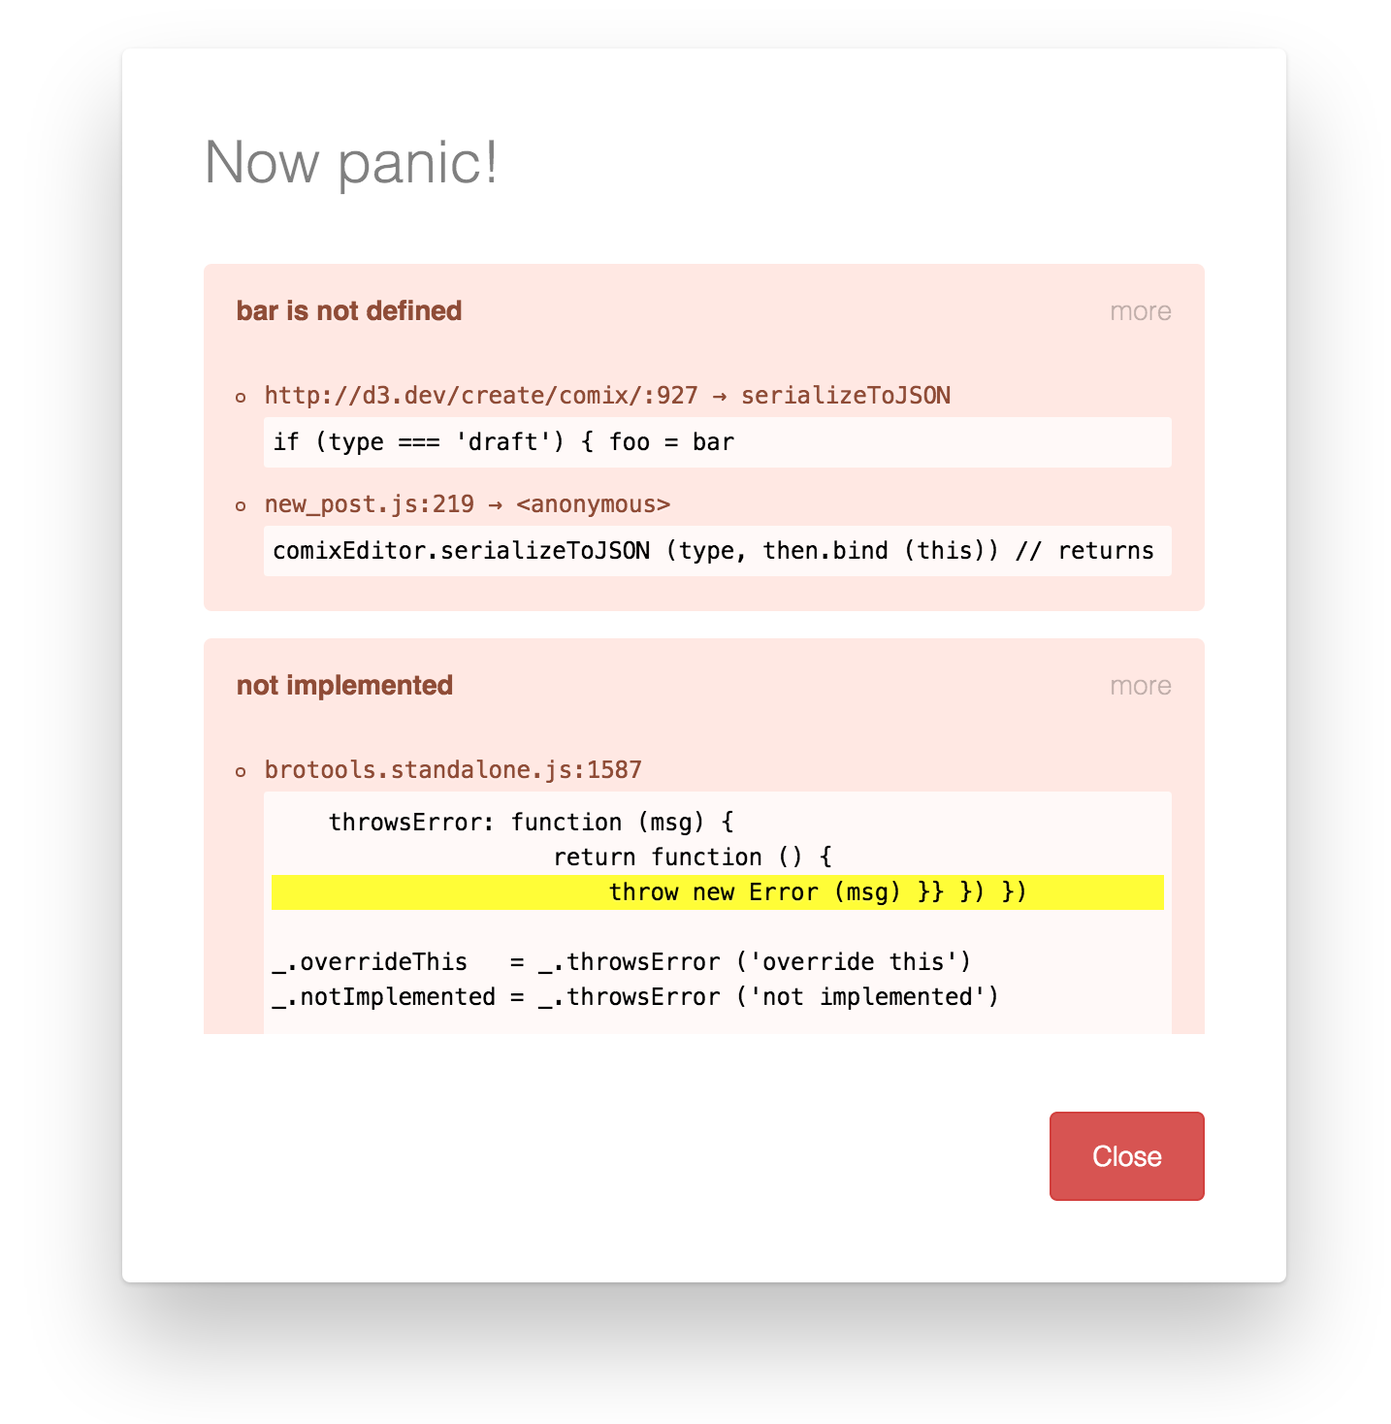
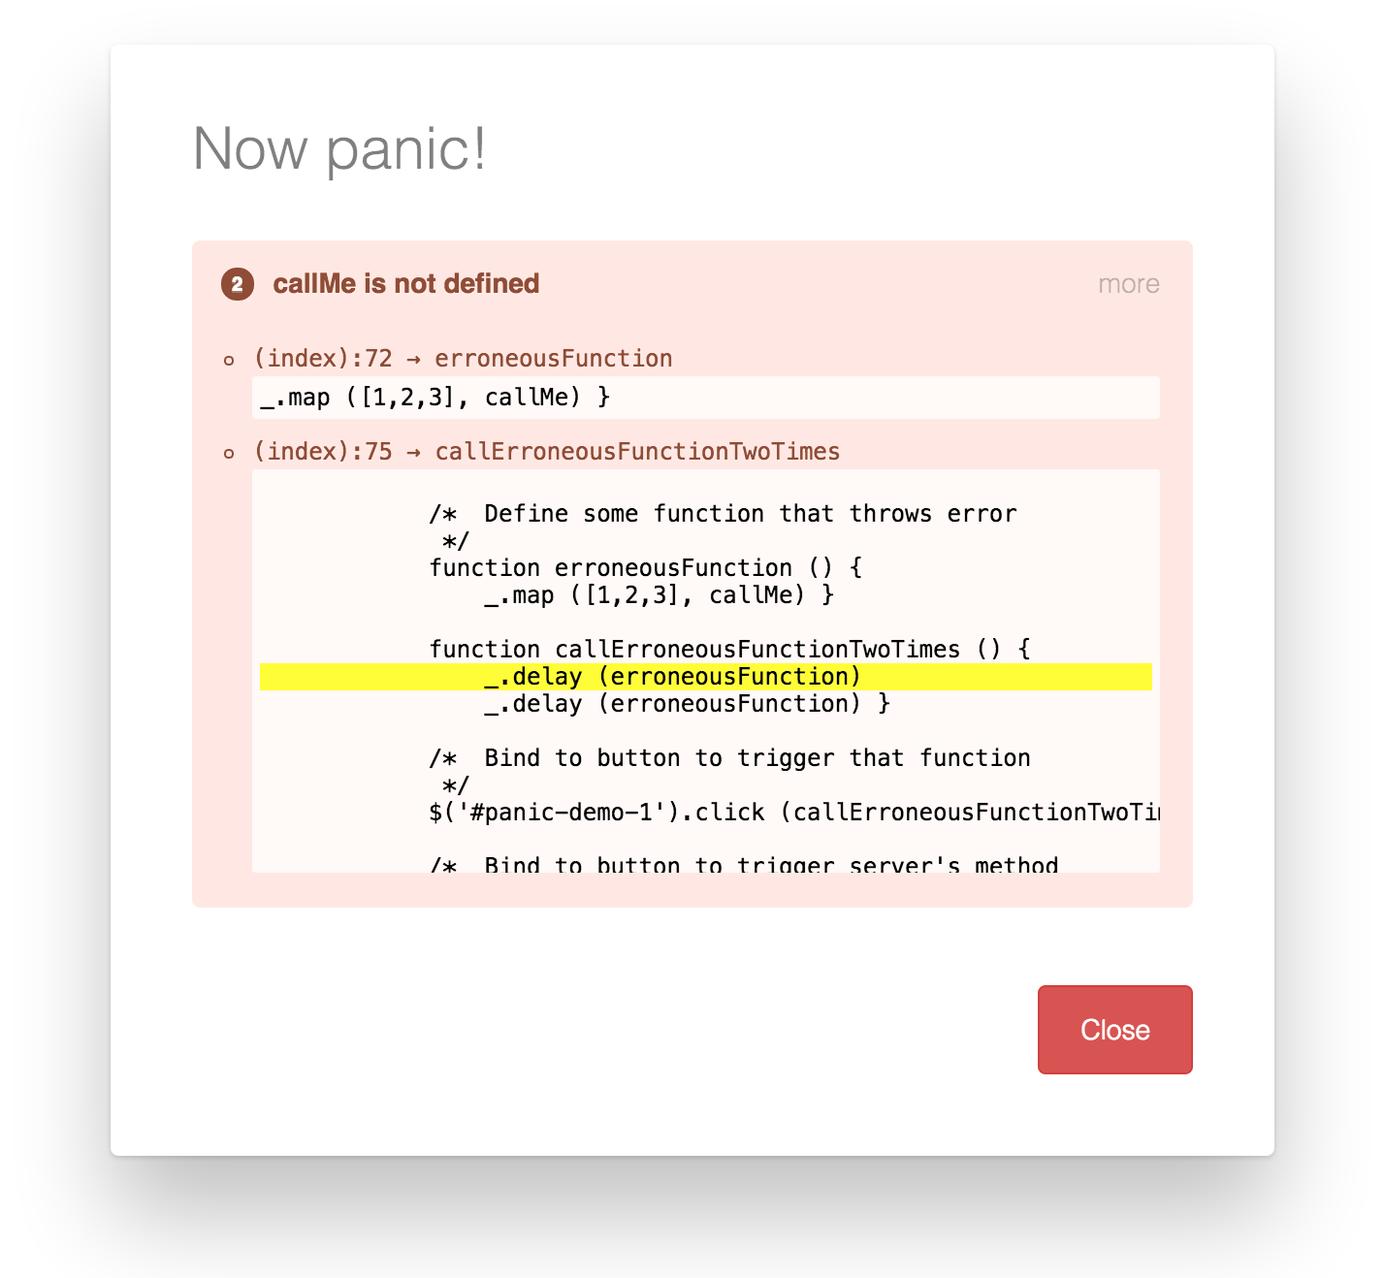
builld.js comprehends multiple build targets, CallStack persists across setTimeout, Panic.js style upd

diff --git a/build/useless.min.js b/build/useless.min.js
@@ -168,13 +168,14 @@ _.each(["parentheses","brackets"],function(b){_.defineHiddenProperty(a,"in"+b.ca
 _.defineKeyword("sourcePath",_.memoize(function(){var a=($uselessPath.match(/(.+)\/node_modules\/(.+)/)||[])[1];return a?a+"/":$uselessPath}));
 SourceFiles=$singleton(Component,{apiConfig:{},line:function(a,b,c){SourceFiles.read(a,function(a){c((a.split("\n")[b]||"").trimmed)})},read:$memoizeCPS(function(a,b){if(0>a.indexOf("<"))try{Platform.NodeJS?b(require("fs").readFileSync(a,{encoding:"utf8"})||""):jQuery.get(a,b,"text")}catch(c){b("")}else b("")}),write:function(a,b,c){Platform.NodeJS?this.read(a,function(d){var e=require("fs"),f={encoding:"utf8"};try{e.mkdirSync(a+".backups")}catch(g){}e.writeFileSync(a+".backups/"+Date.now(),d,f);
 e.writeFileSync(a,b,f);c()}):API.post("source/"+a,_.extend2({},this.apiConfig,{what:{text:b},failure:Panic,success:function(){log.ok(a,"\u2014 successfully saved");c&&c()}}))}});_.readSourceLine=SourceFiles.line;_.readSource=SourceFiles.read;_.writeSource=SourceFiles.write;
-CallStack=$extends(Array,{current:$static($property(function(){return CallStack.fromRawString(CallStack.currentAsRawString).offset(1)})),fromError:$static(function(a){return a.parsedStack?CallStack.fromParsedArray(_.map(a.parsedStack,function(a){return _.extend(a,{sourceReady:_.constant(a.source)})})):CallStack.fromRawString(a.stack)}),locationEquals:$static(function(a,b){return a.file===b.file&&a.line===b.line&&a.column===b.column}),safeLocation:function(a){return this[a]||{callee:"",calleeShort:"",
-file:"",fileName:"",fileShort:"",thirdParty:!1,source:"??? WRONG LOCATION ???",sourceReady:_.cps.constant("??? WRONG LOCATION ???")}},clean:$property(function(){return this.reject(_.property("thirdParty"))}),asArray:$property(function(){return _.asArray(this)}),offset:function(a){return CallStack.fromParsedArray(_.rest(this,a))},filter:function(a){return CallStack.fromParsedArray(_.filter(this,a))},reject:function(a){return CallStack.fromParsedArray(_.reject(this,a))},reversed:$property(function(){return CallStack.fromParsedArray(_.reversed(this))}),
-sourcesReady:function(a){return _.allTriggered(_.pluck(this,"sourceReady"),a)},constructor:function(a){Array.prototype.constructor.call(this);for(var b=0,c=a.length;b<c;b++)this.push(a[b])},fromParsedArray:$static(function(a){return new CallStack(a)}),currentAsRawString:$static($property(function(){var a="browser"===_.platform().engine?3:2;return _.rest((Error().stack||"").split("\n"),a).join("\n")})),shortenPath:$static(function(a){return a.replace($uselessPath,"").replace($sourcePath,"")}),isThirdParty:$static(_.bindable(function(a){var b=
-a.replace($sourcePath,"");return Platform.NodeJS&&"/"!==a[0]||0<=b.indexOf("/node_modules/")||0<=a.indexOf("/node_modules/")&&!b||0<=b.indexOf("underscore")||0<=b.indexOf("jquery")})),fromRawString:$static(_.sequence(function(a){return CallStack.rawStringToArray(a)},function(a){return _.map(a,function(a){return _.extend(a,{calleeShort:_.last(a.callee.split(".")),fileName:_.last(a.file.split("/")),fileShort:CallStack.shortenPath(a.file),thirdParty:CallStack.isThirdParty(a.file)})})},function(a){return _.map(a,
-function(a){a.source="";a.sourceReady=_.barrier();_.readSourceLine(a.file,a.line-1,function(c){a.source=c;a.sourceReady(c)});return a})},function(a){return CallStack.fromParsedArray(a)})),rawStringToArray:$static(function(a){a=_.rest((a||"").split("\n"),"browser"===_.platform().engine?1:0);return _.map(a,function(a){a=a.trimmed;var c,d=[],e=a.match(/at (.+) \((.+)\)/);e?(c=e[1],d=_.rest(e[2].match(/(.*):(.+):(.+)/)||[])):(e=a.match(/at (.+)/))&&e[1]&&(d=_.rest(e[1].match(/(.*):(.+):(.+)/)||[]));return{beforeParse:a,
-callee:c||"",file:d[0]||"",line:(d[1]||"").integerValue,column:(d[2]||"").integerValue}})})});$prototype.macro(function(a,b){var c=CallStack.currentAsRawString;a.$meta||(a.$meta=$static(_.cps.memoize(function(a){_.cps.find(CallStack.fromRawString(c).reversed,function(a,b){a.sourceReady(function(c){c=(c||"").match(/([A-z]+)\s*=\s*\$(prototype|singleton|component|extends|trait|aspect)/);b(c&&{name:c[1],type:c[2],file:a.fileShort}||!1)})},function(b){a(b||{})})})));return a});
-_.measure=function(a,b){if(b){var c=_.now();a(function(){b(_.now()-c)})}else return c=_.now(),a(),_.now()-c};_.perfTest=function(a,b){var c=_.isFunction(a)?{test:a}:a,d={};_.cps.each(c,function(a,b,c){var h=[],k=function(){for(var c=0;500>c;c++)h.push(a());console.log(b,h)};k();_.delay(function(){d[b]=_.measure(k)/500;c()},100)},function(){b(d)})};_.defineTagKeyword("shouldFail");_.defineTagKeyword("async");_.defineTagKeyword("assertion");
+CallStack=$extends(Array,{enableSetTimeoutHook:$static(function(){var a=$global.setTimeout;$global.setTimeout=function(b,c){var d=CallStack.current;return a(function(){_.withUncaughtExceptionHandler(function(a){throw _.extend(a,{parsedStack:CallStack.fromParsedArray(_.initial(CallStack.fromError(a).asArray,3).concat(d.asArray))});},function(a){b();a()})},c)}}),current:$static($property(function(){return CallStack.fromRawString(CallStack.currentAsRawString).offset(1)})),fromError:$static(function(a){$global.xxx=
+a;return a.parsedStack?CallStack.fromParsedArray(_.map(a.parsedStack,function(a){return _.extend(a,{sourceReady:_.constant(a.source)})})):CallStack.fromRawString(a.stack)}),locationEquals:$static(function(a,b){return a.file===b.file&&a.line===b.line&&a.column===b.column}),safeLocation:function(a){return this[a]||{callee:"",calleeShort:"",file:"",fileName:"",fileShort:"",thirdParty:!1,source:"??? WRONG LOCATION ???",sourceReady:_.cps.constant("??? WRONG LOCATION ???")}},clean:$property(function(){return this.reject(_.property("thirdParty"))}),
+asArray:$property(function(){return _.asArray(this)}),offset:function(a){return CallStack.fromParsedArray(_.rest(this,a))},filter:function(a){return CallStack.fromParsedArray(_.filter(this,a))},reject:function(a){return CallStack.fromParsedArray(_.reject(this,a))},reversed:$property(function(){return CallStack.fromParsedArray(_.reversed(this))}),sourcesReady:function(a){return _.allTriggered(_.pluck(this,"sourceReady"),a)},constructor:function(a){Array.prototype.constructor.call(this);for(var b=0,
+c=a.length;b<c;b++)this.push(a[b])},fromParsedArray:$static(function(a){return new CallStack(a)}),currentAsRawString:$static($property(function(){var a="browser"===_.platform().engine?3:2;return _.rest((Error().stack||"").split("\n"),a).join("\n")})),shortenPath:$static(function(a){return a.replace($uselessPath,"").replace($sourcePath,"")}),isThirdParty:$static(_.bindable(function(a){var b=a.replace($sourcePath,"");return Platform.NodeJS&&"/"!==a[0]||0<=b.indexOf("/node_modules/")||0<=a.indexOf("/node_modules/")&&
+!b||0<=b.indexOf("underscore")||0<=b.indexOf("jquery")})),fromRawString:$static(_.sequence(function(a){return CallStack.rawStringToArray(a)},function(a){return _.map(a,function(a){return _.extend(a,{calleeShort:_.last(a.callee.split(".")),fileName:_.last(a.file.split("/")),fileShort:CallStack.shortenPath(a.file),thirdParty:CallStack.isThirdParty(a.file)})})},function(a){return _.map(a,function(a){a.source="";a.sourceReady=_.barrier();_.readSourceLine(a.file,a.line-1,function(c){a.source=c;a.sourceReady(c)});
+return a})},function(a){return CallStack.fromParsedArray(a)})),rawStringToArray:$static(function(a){a=_.rest((a||"").split("\n"),"browser"===_.platform().engine?1:0);return _.map(a,function(a){a=a.trimmed;var c,d=[],e=a.match(/at (.+) \((.+)\)/);e?(c=e[1],d=_.rest(e[2].match(/(.*):(.+):(.+)/)||[])):(e=a.match(/at (.+)/))&&e[1]&&(d=_.rest(e[1].match(/(.*):(.+):(.+)/)||[]));return{beforeParse:a,callee:c||"",file:d[0]||"",line:(d[1]||"").integerValue,column:(d[2]||"").integerValue}})})});
+$prototype.macro(function(a,b){var c=CallStack.currentAsRawString;a.$meta||(a.$meta=$static(_.cps.memoize(function(a){_.cps.find(CallStack.fromRawString(c).reversed,function(a,b){a.sourceReady(function(c){c=(c||"").match(/([A-z]+)\s*=\s*\$(prototype|singleton|component|extends|trait|aspect)/);b(c&&{name:c[1],type:c[2],file:a.fileShort}||!1)})},function(b){a(b||{})})})));return a});_.measure=function(a,b){if(b){var c=_.now();a(function(){b(_.now()-c)})}else return c=_.now(),a(),_.now()-c};
+_.perfTest=function(a,b){var c=_.isFunction(a)?{test:a}:a,d={};_.cps.each(c,function(a,b,c){var h=[],k=function(){for(var c=0;500>c;c++)h.push(a());console.log(b,h)};k();_.delay(function(){d[b]=_.measure(k)/500;c()},100)},function(){b(d)})};_.defineTagKeyword("shouldFail");_.defineTagKeyword("async");_.defineTagKeyword("assertion");
 Testosterone=$singleton({prototypeTests:[],isRunning:$property(function(){return void 0!==this.currentTest}),constructor:function(){this.defineAssertion("assertFails",$shouldFail(function(a){a.call(this)}));_.each(_.omit(_.assertions,"assertFails"),function(a,b){this.defineAssertion(b,b in _.asyncAssertions?$async(a):a)},this);(function(a){$prototype.macro("$test",a);$prototype.macro("$tests",a)})(this.$(function(a,b,c){this.prototypeTests.push({readPrototypeMeta:Tags.unwrap(a.$meta),tests:b});a[c]=
 $static($property($constant(a[c])));return a}));this.run=this.$(this.run)},run:$interlocked(function(a,b){var c=_.last(arguments),d=3===arguments.length?b:_.identity,e=this.runConfig=_.extend({silent:!0,verbose:!1,timeout:2E3,testStarted:function(a){},testComplete:function(a){}},a),f=_.map(e.suites||[],this.$(function(a){return this.testSuite(a.name,a.tests,e.context)}));(!1===e.codebase?_.cps.constant([]):this.$(this.collectPrototypeTests))(this.$(function(a){var b=!1===e.codebase?[]:this.collectTests();
 a=_.flatten(_.pluck(b.concat(f).concat(a),"tests"));a=_.filter(a,e.shouldRun||_.constant(!0));this.runningTests=_.map(a,function(a,b){return _.extend(a,{index:b})});_.cps.each(a,this.$(this.runTest),this.$(function(){_.assert(!0!==e.done);e.done=!0;this.printLog(e);this.failedTests=_.filter(this.runningTests,_.property("failed"));this.failed=0<this.failedTests.length;d(!this.failed);c()}))}))}),defineAssertions:function(a){_.each(a,function(a,c){this.defineAssertion(c,a)},this)},runTest:function(a,

diff --git a/client/Panic.js b/client/Panic.js
@@ -27,7 +27,8 @@ Panic = function (what, cfg) { cfg = _.defaults (_.clone (cfg || {}), { dismiss:
 Panic.init = function () {
 	if (!Panic._initialized) {
 		 Panic._initialized = true
-		_.withUncaughtExceptionHandler (Panic.arity1) } }
+		 CallStack.enableSetTimeoutHook ()
+	   _.withUncaughtExceptionHandler (Panic.arity1) } }
 
 Panic.widget = $singleton (Component, {
 
@@ -110,7 +111,7 @@ Panic.widget = $singleton (Component, {
 								   readSource = (e.remote ? Panic.widget.readRemoteSource : _.readSource)
 		return [
 
-			$('<div class="message" style="font-weight: bold;">')
+			$('<div class="panic-alert-error-message" style="font-weight: bold;">')
 				.text (e.message)
 				.append ('<a class="clean-toggle" href="javascript:{}"></a>').click (function (e) {
 					$(e.delegateTarget).parent ().parent ().toggleClass ('all') }),
@@ -122,21 +123,18 @@ Panic.widget = $singleton (Component, {
 						.append ([
 							$('<span class="file">').text (_.nonempty ([entry.fileShort || '(index)', ':', entry.line]).join ('')),
 							$('<span class="callee">').text (entry.calleeShort),
-							$('<span class="src">').text (entry.source || '').click (function (e) {
-								var el = $(e.delegateTarget)
-								el.waitUntil (readSource.partial (entry.file),
-									function (text) {
-										if (el.is ('.full')) {
-											el.removeClass ('full').text (entry.source)
-										} else {
-											el.addClass ('full').html (_.map (text.split ('\n'), function (line) {
-												return $('<div class="line">').text (line)
-											}))
-											_.delay (function () {
-												var line = el.find ('.line').eq (entry.line - 1).addClass ('hili')
-												if (line.length) {
-													var offset = line.offset ().top - el.offset ().top
-													el.scrollTop (offset - 100) } }) } }) })])
+							$('<span class="src">').text (entry.source || '').click (function (e) { var el = $(e.delegateTarget)
+								el.waitUntil (readSource.partial (entry.file), function (text) {
+									if (el.is ('.full')) {
+										el.removeClass ('full').text (entry.source) }
+									else {
+										el.addClass ('full').html (_.map (text.split ('\n'), function (line) {
+											return $('<div class="line">').text (line) }))
+										_.delay (function () {
+											var line = el.find ('.line').eq (entry.line - 1).addClass ('hili')
+											if (line.length) {
+												var offset = line.offset ().top - el.offset ().top
+												el.scrollTop (offset - 100) } }) } }) })])
 
 				entry.sourceReady (function (text) {
 					dom.find ('.src').text (text) })

diff --git a/client/Panic.css b/client/Panic.css
@@ -49,7 +49,7 @@
 .panic-modal-body { overflow-y: auto; width: 100%; }
 .panic-modal-footer { text-align: right; position: absolute; left: 0; right: 0; bottom: 0; padding: 42px; }
 
-.panic-btn { margin-right: 1em; font-weight: 300; font-family: Helvetica, sans-serif; -webkit-user-select: none; user-select: none; cursor: pointer; display: inline-block; padding: 1em 1.5em; border-radius: 4px; font-size: 14px; border: 1px solid black; color: white; }
+.panic-btn { margin-left: 1em; font-weight: 300; font-family: Helvetica, sans-serif; -webkit-user-select: none; user-select: none; cursor: pointer; display: inline-block; padding: 1em 1.5em; border-radius: 4px; font-size: 14px; border: 1px solid black; color: white; }
 .panic-btn:focus { outline: none; }
 .panic-btn:focus { box-shadow: inset 0px 2px 10px rgba(0,0,0,0.25); }
 
@@ -61,8 +61,6 @@
 
 .panic-alert-error { border-radius: 4px; background: #FFE8E2; color: #904C34; padding: 1em 1.2em 1.2em 1.2em; margin-bottom: 1em; font-size: 14px; }
 
-/* stacktrace in Panic */
-
 .panic-alert-error { position: relative; text-shadow: 0px 1px 0px rgba(255,255,255,0.25); }
 .panic-alert-error:not(.all) .callstack-entry.third-party { display: none; }
 .panic-alert-error .clean-toggle { text-decoration: none; font-weight: 300; position: absolute; color: black; opacity: 0.25; right: 1.2em; left: 0; top: 1em; display: block; text-align: right; }
@@ -70,6 +68,8 @@
 .panic-alert-error .clean-toggle:before { content: 'more'; }
 .panic-alert-error.all .clean-toggle:before { content: 'less'; }
 .panic-alert-error:last-child { margin-bottom: 0; }
+
+.panic-alert-error-message { line-height: 1.2em; }
 
 .panic-alert-error .callstack { font-size: 12px; margin: 2em 0 0.1em 0; font-family: Menlo, monospace; padding: 0 0 0 1.2em; }
 .panic-alert-error .callstack .callstack-entry { margin-top: 10px; list-style-type: circle;  }

diff --git a/build.js b/build.js
@@ -130,9 +130,10 @@ function stripCommentsAndTests (src, name, path) {
     return output
 }
 
-function compile (cfg) {
-    var name = _.initial (path.basename (cfg.file).split ('.')).join ('.')
-    var compiledSrc = compileMacros (cfg.file)
+function compile (cfg) { _.each (cfg.files, function (file) {
+
+    var name = _.initial (path.basename (file).split ('.')).join ('.')
+    var compiledSrc = compileMacros (file)
     var strippedSrc = stripCommentsAndTests (compiledSrc.replace (/_\.withTest \(/g, '_.deferTest ('), name, cfg.path)
 
     if (!cfg['no-compress']) {
@@ -140,7 +141,7 @@ function compile (cfg) {
             strippedSrc,
             writeCompiled.partial (name + '.min.js', cfg.path)) }
 
-    writeCompiled (name + '.js', cfg.path, compiledSrc) }
+    writeCompiled (name + '.js', cfg.path, compiledSrc) }) }
 
 console.log ('Running code base tests...')
 
@@ -156,8 +157,8 @@ Testosterone.run ({
         var filePath      = _.without.apply (null, [arguments].concat (optionNames))
         var options       = _.index (_.intersection (arguments, optionNames))
 
-        var cfg = _.extend ({ file: filePath[0] || './useless.js',
-                              path: filePath[1] || './build' }, options)
+        var cfg = _.extend ({ files: _.coerceToUndefined (_.initial (filePath)) || ['./useless.js'],
+                              path:                       _.last    (filePath)  ||  './build' }, options)
 
         console.log ('Checking dependencies')
 

diff --git a/build/useless.js b/build/useless.js
@@ -6804,10 +6804,25 @@ _.writeSource    = SourceFiles.write
  */
 CallStack = $extends (Array, {
 
+    /*  Enables CallStack persistence through async call boundaries
+     */
+    enableSetTimeoutHook: $static (function () { var setTimeout = $global.setTimeout
+        $global.setTimeout = function (fn, t) {  var stackBeforeTimeout = CallStack.current
+            return setTimeout (function () {
+                _.withUncaughtExceptionHandler (
+                    function (e) {
+                        throw _.extend (e, {
+                            parsedStack: CallStack.fromParsedArray (
+                                _.initial (CallStack.fromError (e).asArray, 3).concat (
+                                    stackBeforeTimeout.asArray)) }) },
+                    function (doneWithUncaughtExceptionHandler) {
+                        fn ()
+                        doneWithUncaughtExceptionHandler () }) }, t) } }),
+
     current: $static ($property (function () {
         return CallStack.fromRawString (CallStack.currentAsRawString).offset (1) })),
 
-    fromError: $static (function (e) {
+    fromError: $static (function (e) { $global.xxx = e
         if (e.parsedStack) {
             return CallStack.fromParsedArray (_.map (e.parsedStack, function (entry) {
                 return _.extend (entry, { sourceReady: _.constant (entry.source) }) })) }

diff --git a/base/reflection.js b/base/reflection.js
@@ -166,10 +166,25 @@ _.writeSource    = SourceFiles.write
  */
 CallStack = $extends (Array, {
 
+    /*  Enables CallStack persistence through async call boundaries
+     */
+    enableSetTimeoutHook: $static (function () { var setTimeout = $global.setTimeout
+        $global.setTimeout = function (fn, t) {  var stackBeforeTimeout = CallStack.current
+            return setTimeout (function () {
+                _.withUncaughtExceptionHandler (
+                    function (e) {
+                        throw _.extend (e, {
+                            parsedStack: CallStack.fromParsedArray (
+                                _.initial (CallStack.fromError (e).asArray, 3).concat (
+                                    stackBeforeTimeout.asArray)) }) },
+                    function (doneWithUncaughtExceptionHandler) {
+                        fn ()
+                        doneWithUncaughtExceptionHandler () }) }, t) } }),
+
     current: $static ($property (function () {
         return CallStack.fromRawString (CallStack.currentAsRawString).offset (1) })),
 
-    fromError: $static (function (e) {
+    fromError: $static (function (e) { $global.xxx = e
         if (e.parsedStack) {
             return CallStack.fromParsedArray (_.map (e.parsedStack, function (entry) {
                 return _.extend (entry, { sourceReady: _.constant (entry.source) }) })) }

diff --git a/build/useless.stripped.js b/build/useless.stripped.js
@@ -4241,10 +4241,25 @@ _.readSourceLine = SourceFiles.line;
 _.readSource = SourceFiles.read;
 _.writeSource = SourceFiles.write;
 CallStack = $extends(Array, {
+    enableSetTimeoutHook: $static(function () {
+        var setTimeout = $global.setTimeout;
+        $global.setTimeout = function (fn, t) {
+            var stackBeforeTimeout = CallStack.current;
+            return setTimeout(function () {
+                _.withUncaughtExceptionHandler(function (e) {
+                    throw _.extend(e, { parsedStack: CallStack.fromParsedArray(_.initial(CallStack.fromError(e).asArray, 3).concat(stackBeforeTimeout.asArray)) });
+                }, function (doneWithUncaughtExceptionHandler) {
+                    fn();
+                    doneWithUncaughtExceptionHandler();
+                });
+            }, t);
+        };
+    }),
     current: $static($property(function () {
         return CallStack.fromRawString(CallStack.currentAsRawString).offset(1);
     })),
     fromError: $static(function (e) {
+        $global.xxx = e;
         if (e.parsedStack) {
             return CallStack.fromParsedArray(_.map(e.parsedStack, function (entry) {
                 return _.extend(entry, { sourceReady: _.constant(entry.source) });

diff --git a/useless.devtools.js b/useless.devtools.js
@@ -1,0 +1,22 @@
+$include ('./base/tier0/uncaught')
+$include ('./base/tier0/typeMatch')
+$include ('./base/tier0/assert')
+$include ('./base/reflection')
+$include ('./base/profiling')
+$include ('./base/log')
+$include ('./base/Testosterone')
+$include ('./client/Panic')
+
+(function ($ /* JQUERY */) {
+	
+	Panic.init ()
+
+	CallStack.isThirdParty.intercept (function (file, originalImpl) {
+	    return (file.indexOf ('underscore') >= 0) ||
+	           (file.indexOf ('jquery') >= 0)     ||
+	           (file.indexOf ('useless') >= 0)    ||
+	           (file.indexOf ('mootools_essential') >= 0) })
+
+    $(document).ready (function () {
+        $('head').append (
+            $('<style type="text/css">').text ($includeStr ('client/Panic.css'))) }) }) (jQuery)

diff --git a/example/index.html b/example/index.html
@@ -145,8 +145,12 @@
     <body>
 
         <h1># Panic demo</h1>
-        <button id="panic-demo-1">Call erroneousFunction (2 times)</button>
-        <button id="panic-demo-2">POST /api/erroneous-method</button>
+
+            Demonstrates error traces with _.delay handling. Also shows grouping of message duplicates.<br/><br/>
+            <button id="panic-demo-1">Call erroneousFunction (2 times)</button><br/><br/>
+
+            Demonstrates cross-machine exception throwing (displays server exception).<br/><br/>
+            <button id="panic-demo-2">POST /api/erroneous-method</button><br/><br/>
 
         <h1># $component demo</h1>
         <div id="component-demo" style="width: 400px;"></div>

diff --git a/README.md b/README.md
@@ -468,7 +468,7 @@ This version includes only the platform-independent part of the library, not inc
 Build command:
 
 ```bash
-node build.js <header-file> <output-folder>
+node build.js <header-file-1> <header-file-2> ... <header-file-N> <output-folder> [no-compress]
 ```
 
 For generic build, run `node build.js ./useless.js ./build`, or simply
@@ -481,7 +481,7 @@ It will generate `./build/useless.js` by substituting `$include` directives foun
 
 ## Custom build
 
-To make reduced/extended distribution (with some submodules disabled or enabled), you can create your own version of default header file, commenting out unneeded `$include` directives.
+To make reduced/extended distribution (with some submodules disabled or enabled), you can create your own version of default header file, commenting out unneeded `$include` directives or including additional ones.
 
 There exists `./useless.micro.js` as an example of reduced build. Running `node build.js ./useless.micro.js ./build` will produce `./build/useless.micro.min.js` as output.
 
